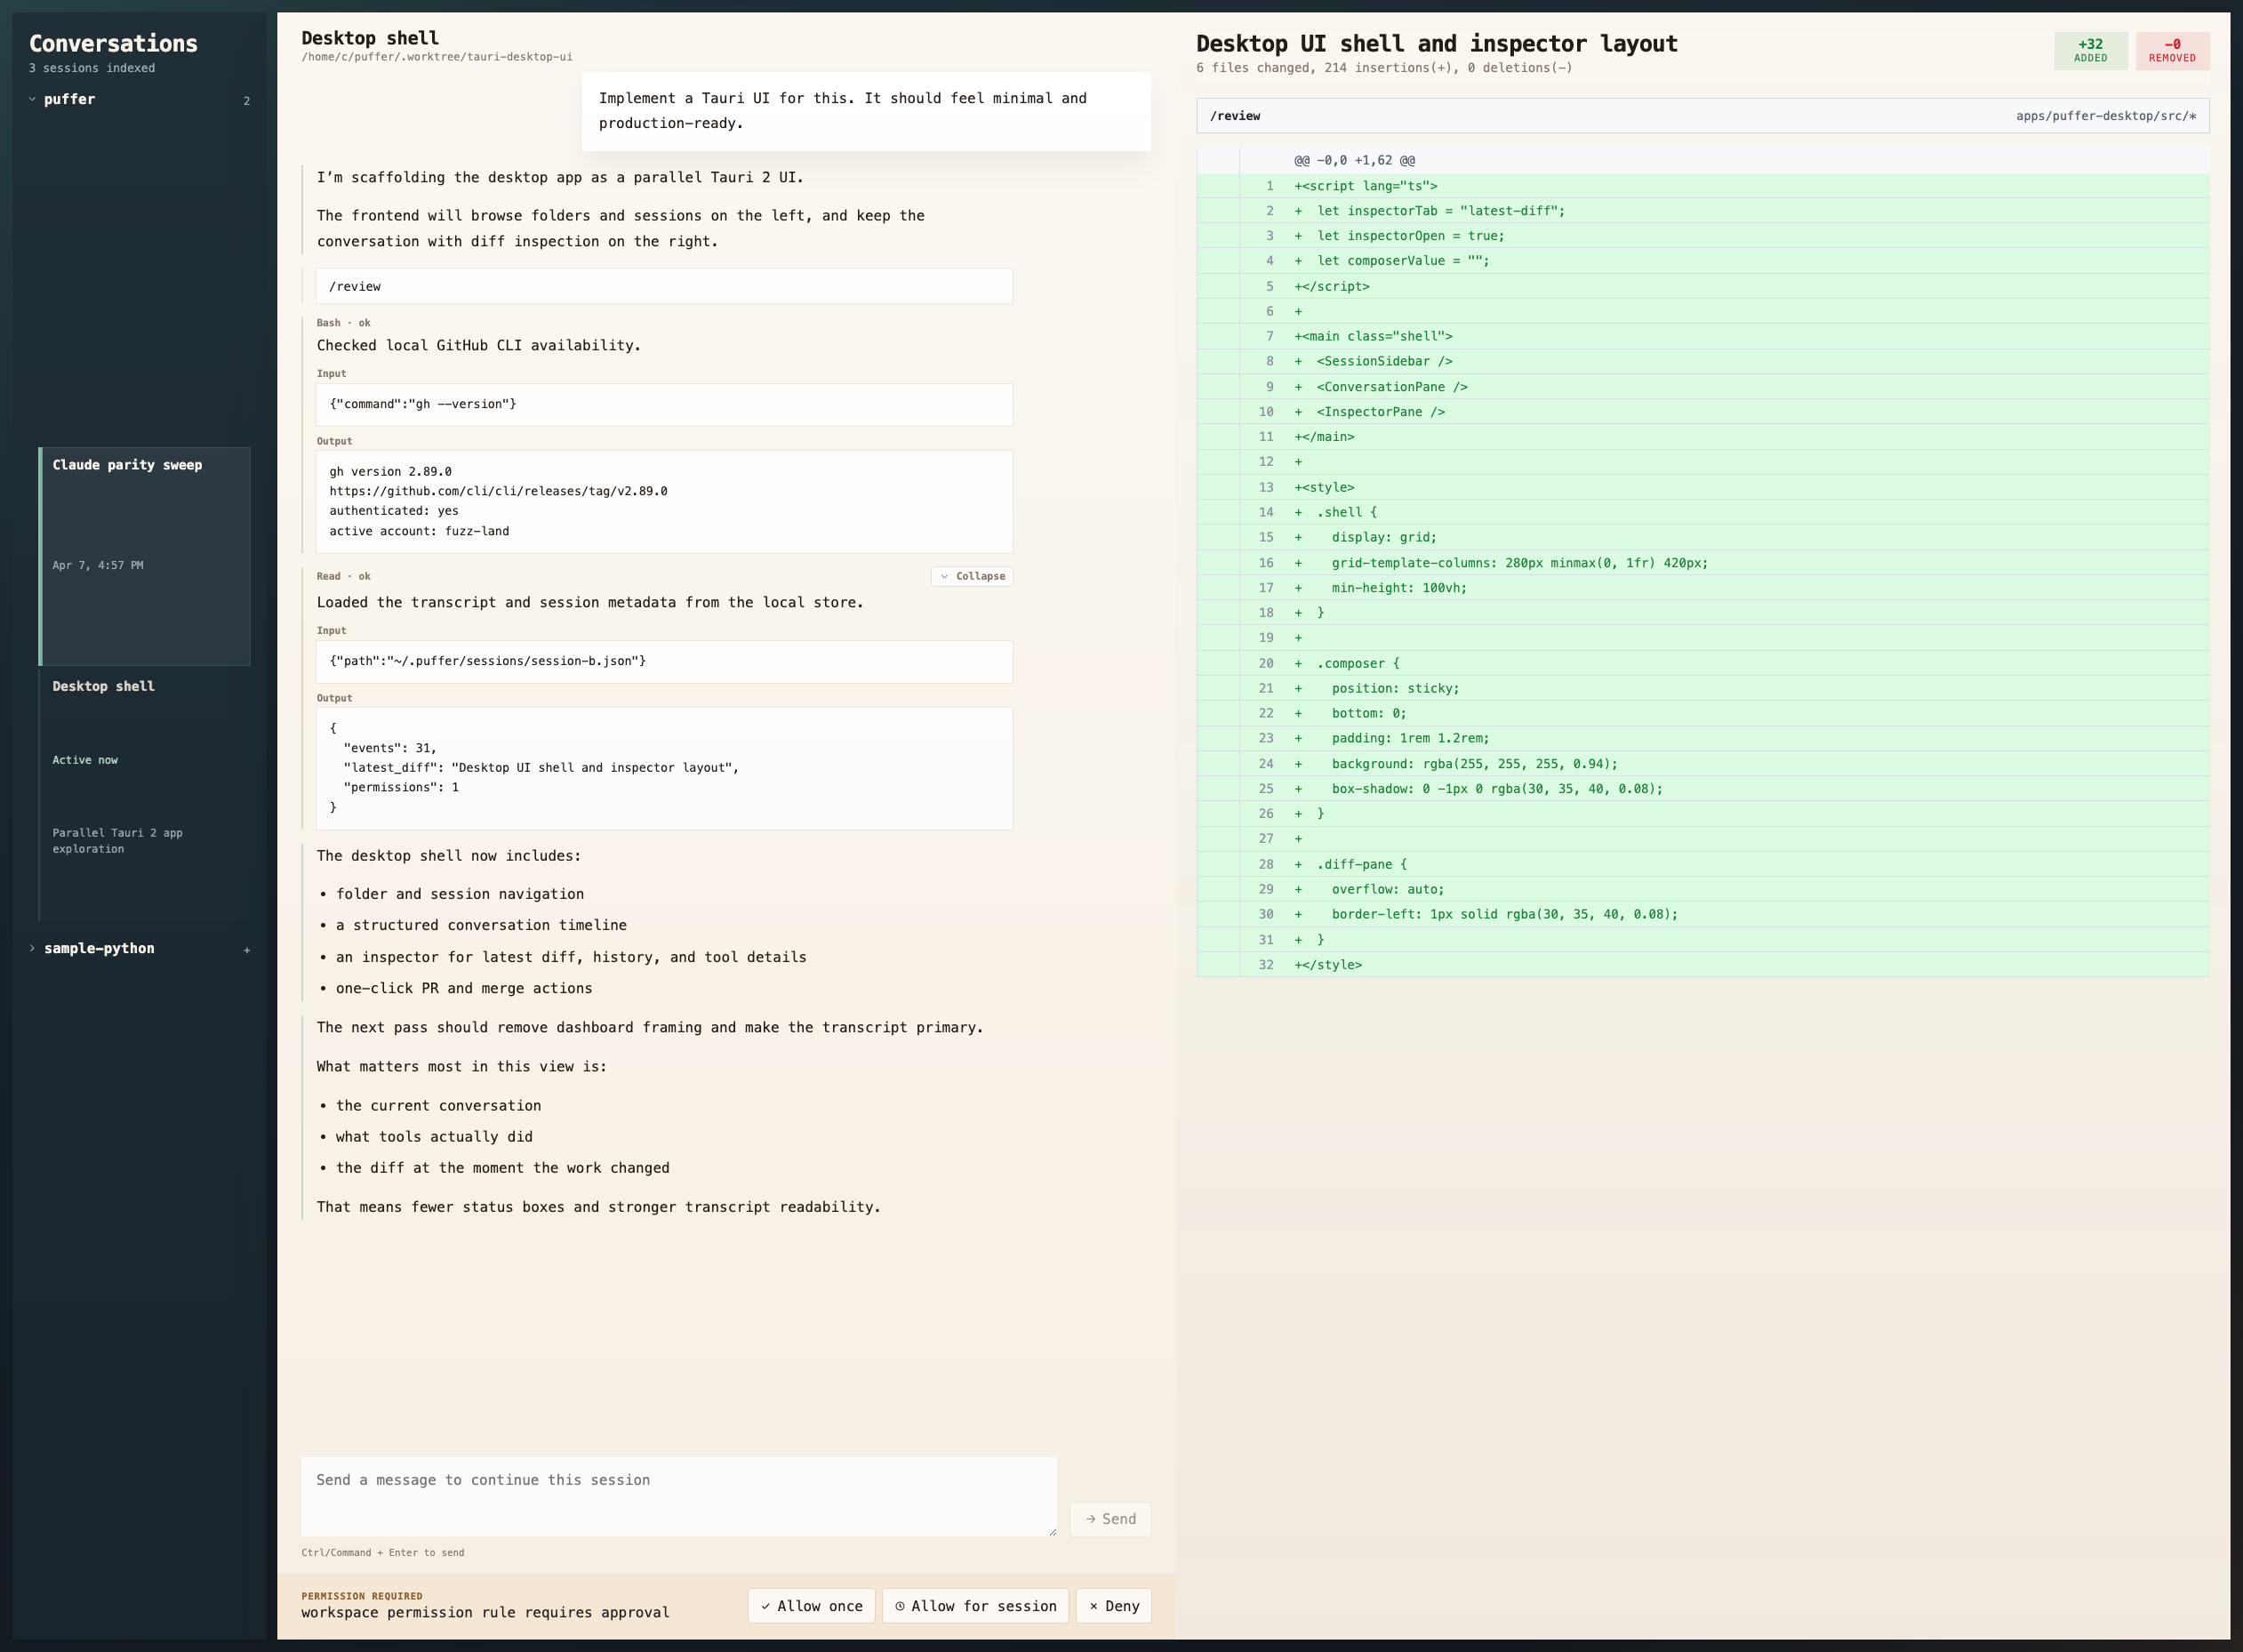
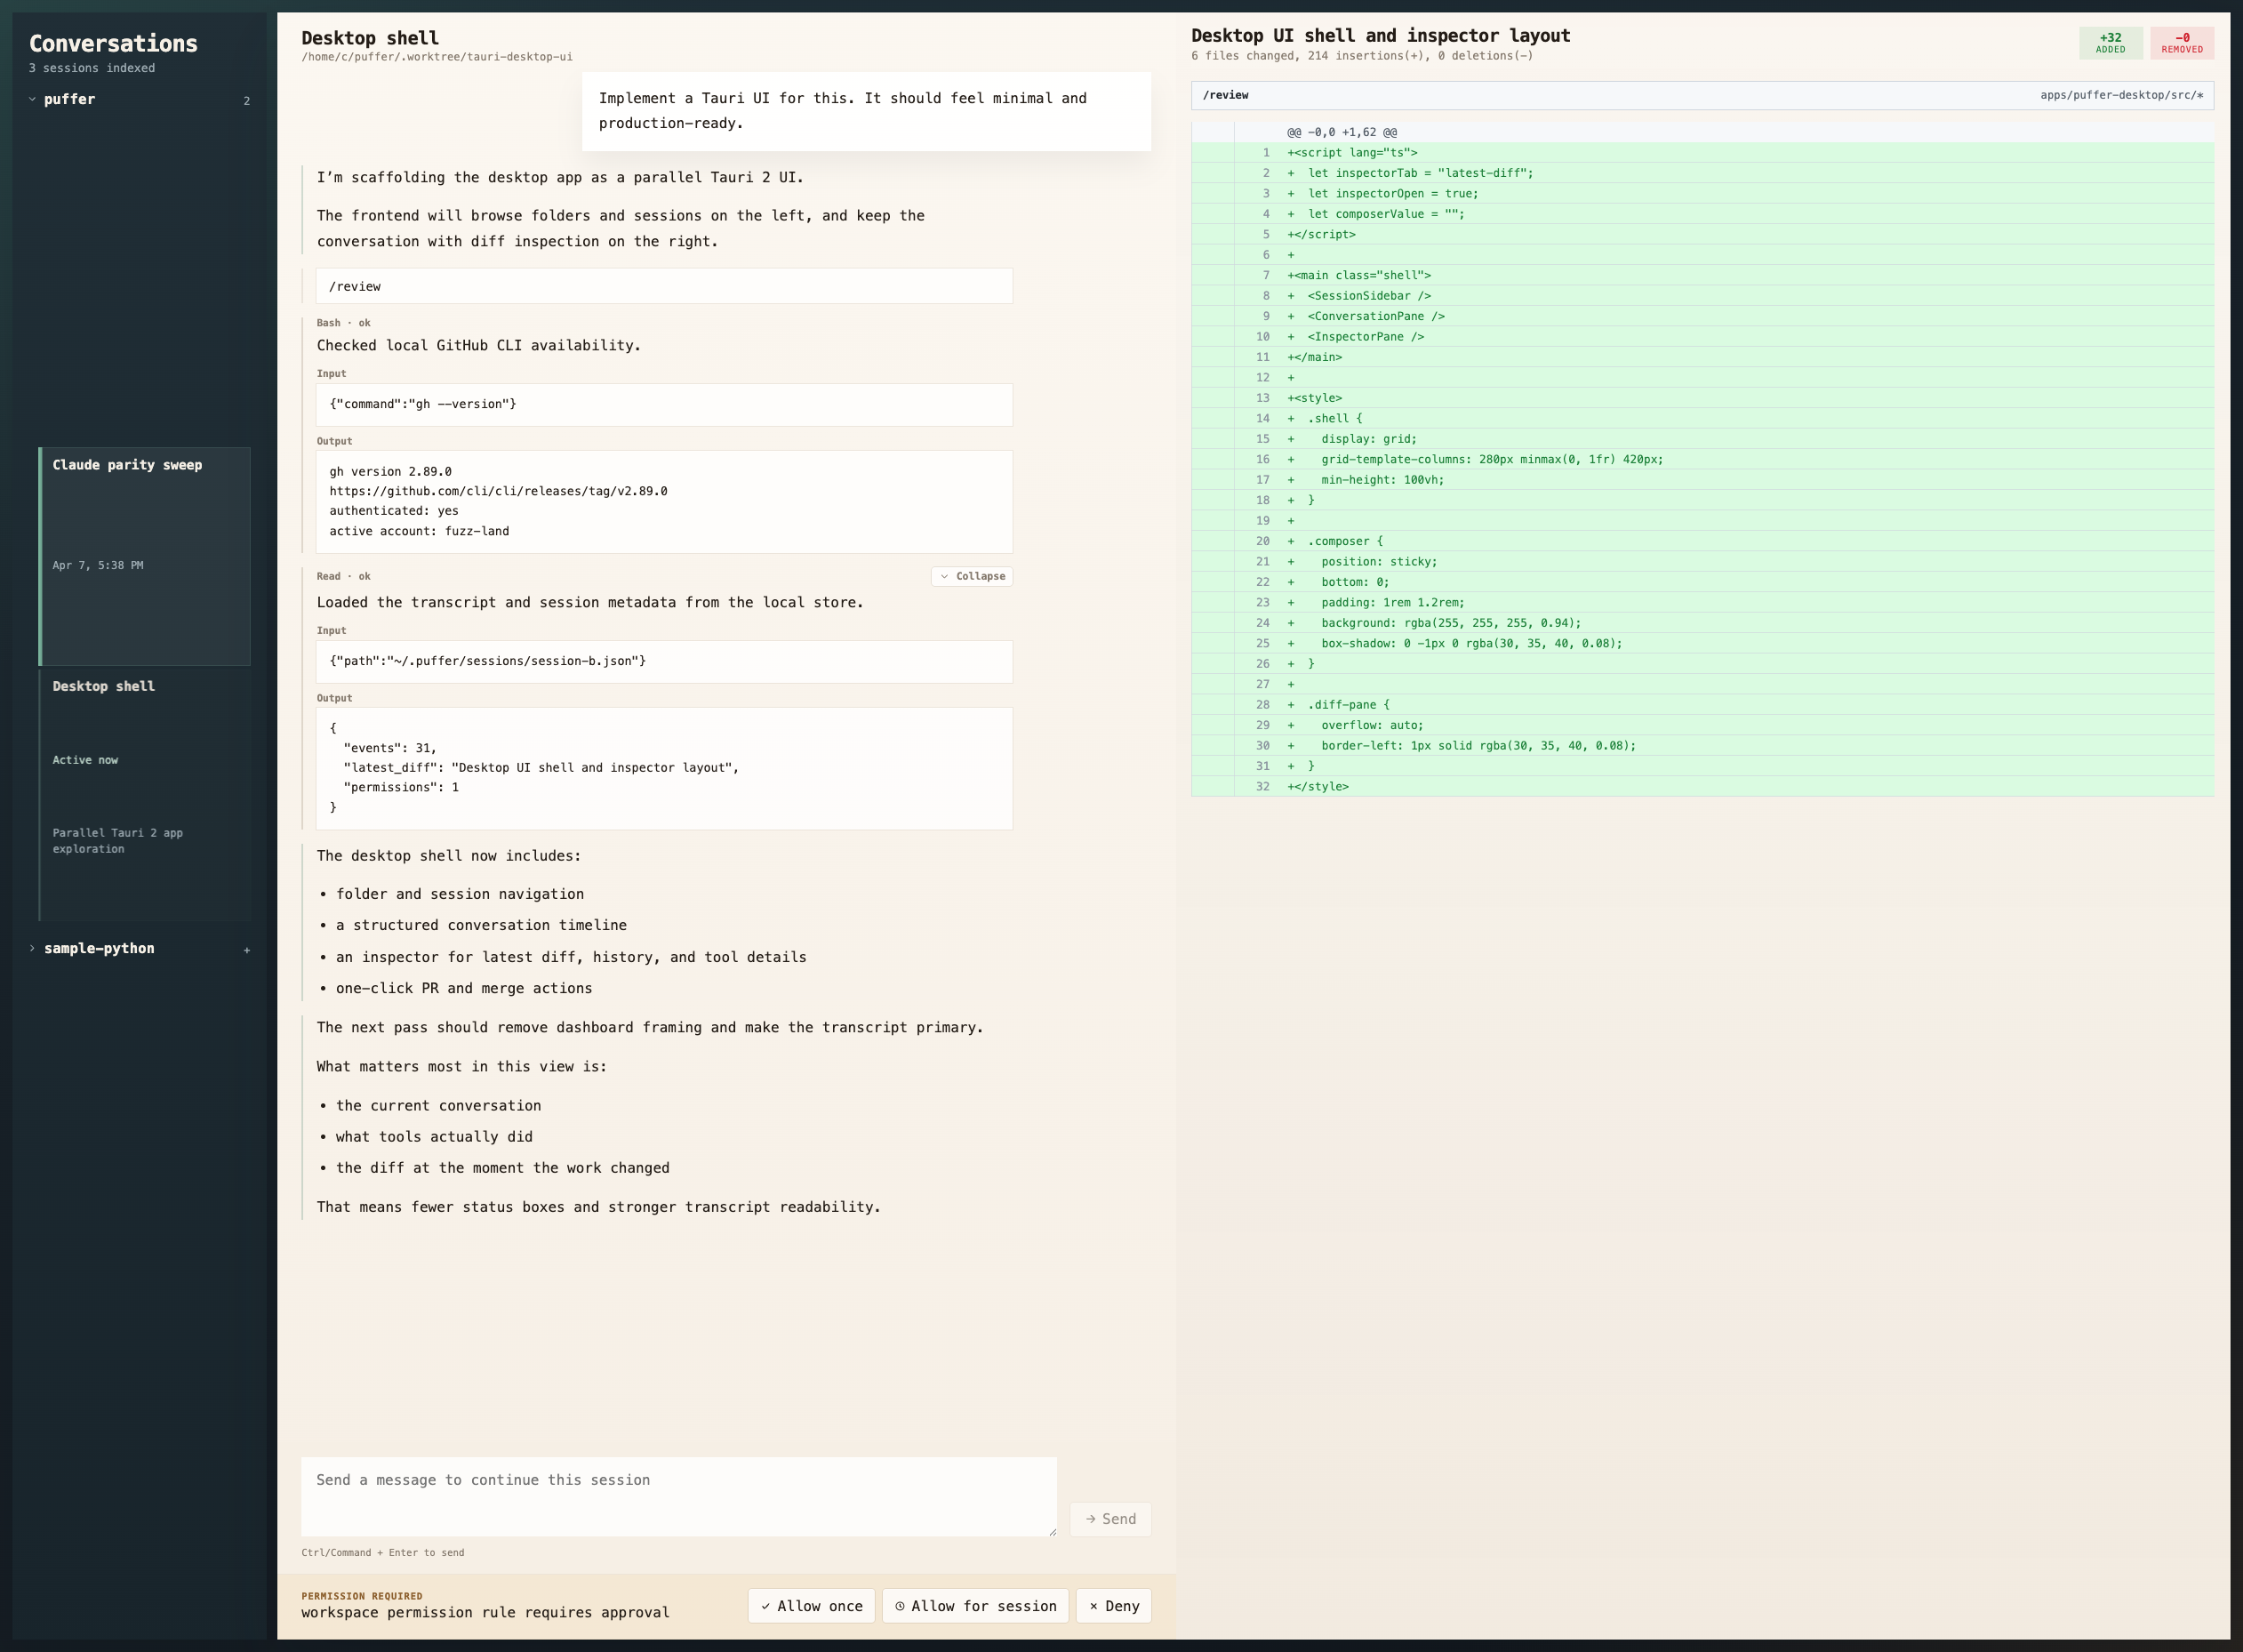
Refine desktop diff rail hierarchy and refresh screenshots

Changed region(s): [[0.5256, 0.0, 0.9893, 0.5931]]

diff --git a/apps/puffer-desktop/src/lib/components/DiffView.svelte b/apps/puffer-desktop/src/lib/components/DiffView.svelte
@@ -113,8 +113,8 @@
 <style>
   .diff-view {
     display: grid;
-    gap: 1rem;
-    padding: 1.35rem 1.45rem 1.5rem;
+    gap: 0.85rem;
+    padding: 1rem 1.1rem 1.2rem;
     min-height: 100%;
     align-content: start;
     background:
@@ -123,7 +123,7 @@
   }
 
   .diff-view.compact {
-    padding: 0.95rem 1rem;
+    padding: 0.8rem 0.9rem;
     min-height: auto;
   }
 
@@ -135,7 +135,7 @@
     position: sticky;
     top: 0;
     z-index: 2;
-    padding-bottom: 0.65rem;
+    padding-bottom: 0.45rem;
     background:
       linear-gradient(180deg, rgba(250, 246, 240, 0.98), rgba(250, 246, 240, 0.92));
   }
@@ -143,15 +143,15 @@
   h3 {
     margin: 0;
     font-family: var(--font-display);
-    font-size: 1.6rem;
-    line-height: 1.02;
+    font-size: 1.26rem;
+    line-height: 1.06;
     letter-spacing: -0.03em;
   }
 
   .diff-status {
-    margin: 0.4rem 0 0;
+    margin: 0.24rem 0 0;
     color: var(--text-soft);
-    font-size: 0.88rem;
+    font-size: 0.8rem;
   }
 
   .diff-summary {
@@ -164,11 +164,11 @@
   .summary-pill {
     display: grid;
     gap: 0.04rem;
-    padding: 0.45rem 0.7rem;
+    padding: 0.36rem 0.56rem;
     border-radius: 0;
     background: rgba(46, 160, 67, 0.1);
     color: #1a7f37;
-    min-width: 5.2rem;
+    min-width: 4.5rem;
     text-align: center;
   }
 
@@ -178,12 +178,12 @@
   }
 
   .summary-pill strong {
-    font-size: 0.96rem;
+    font-size: 0.84rem;
     line-height: 1;
   }
 
   .summary-pill span {
-    font-size: 0.7rem;
+    font-size: 0.62rem;
     letter-spacing: 0.08em;
     text-transform: uppercase;
   }
@@ -193,14 +193,14 @@
     justify-content: space-between;
     gap: 1rem;
     align-items: center;
-    padding: 0.78rem 0.95rem;
+    padding: 0.58rem 0.8rem;
     border-radius: 0;
     background: #f6f8fa;
     box-shadow: 0 0 0 1px #d0d7de inset;
     color: #57606a;
-    font-size: 0.84rem;
+    font-size: 0.76rem;
     position: sticky;
-    top: 3.9rem;
+    top: 2.9rem;
     z-index: 2;
   }
 
@@ -224,8 +224,8 @@
     display: grid;
     grid-template-columns: 3rem 3rem minmax(0, 1fr);
     font-family: var(--font-mono);
-    font-size: 0.88rem;
-    line-height: 1.6;
+    font-size: 0.8rem;
+    line-height: 1.5;
   }
 
   .patch-line + .patch-line {
@@ -255,7 +255,7 @@
   .gutter {
     display: grid;
     place-items: center end;
-    padding: 0.18rem 0.55rem 0.18rem 0.2rem;
+    padding: 0.12rem 0.48rem 0.12rem 0.2rem;
     color: #8c959f;
     user-select: none;
     box-shadow: 1px 0 0 rgba(208, 215, 222, 0.7) inset;
@@ -263,7 +263,7 @@
 
   code {
     display: block;
-    padding: 0.18rem 0.9rem;
+    padding: 0.12rem 0.75rem;
     overflow-x: auto;
     white-space: pre;
   }